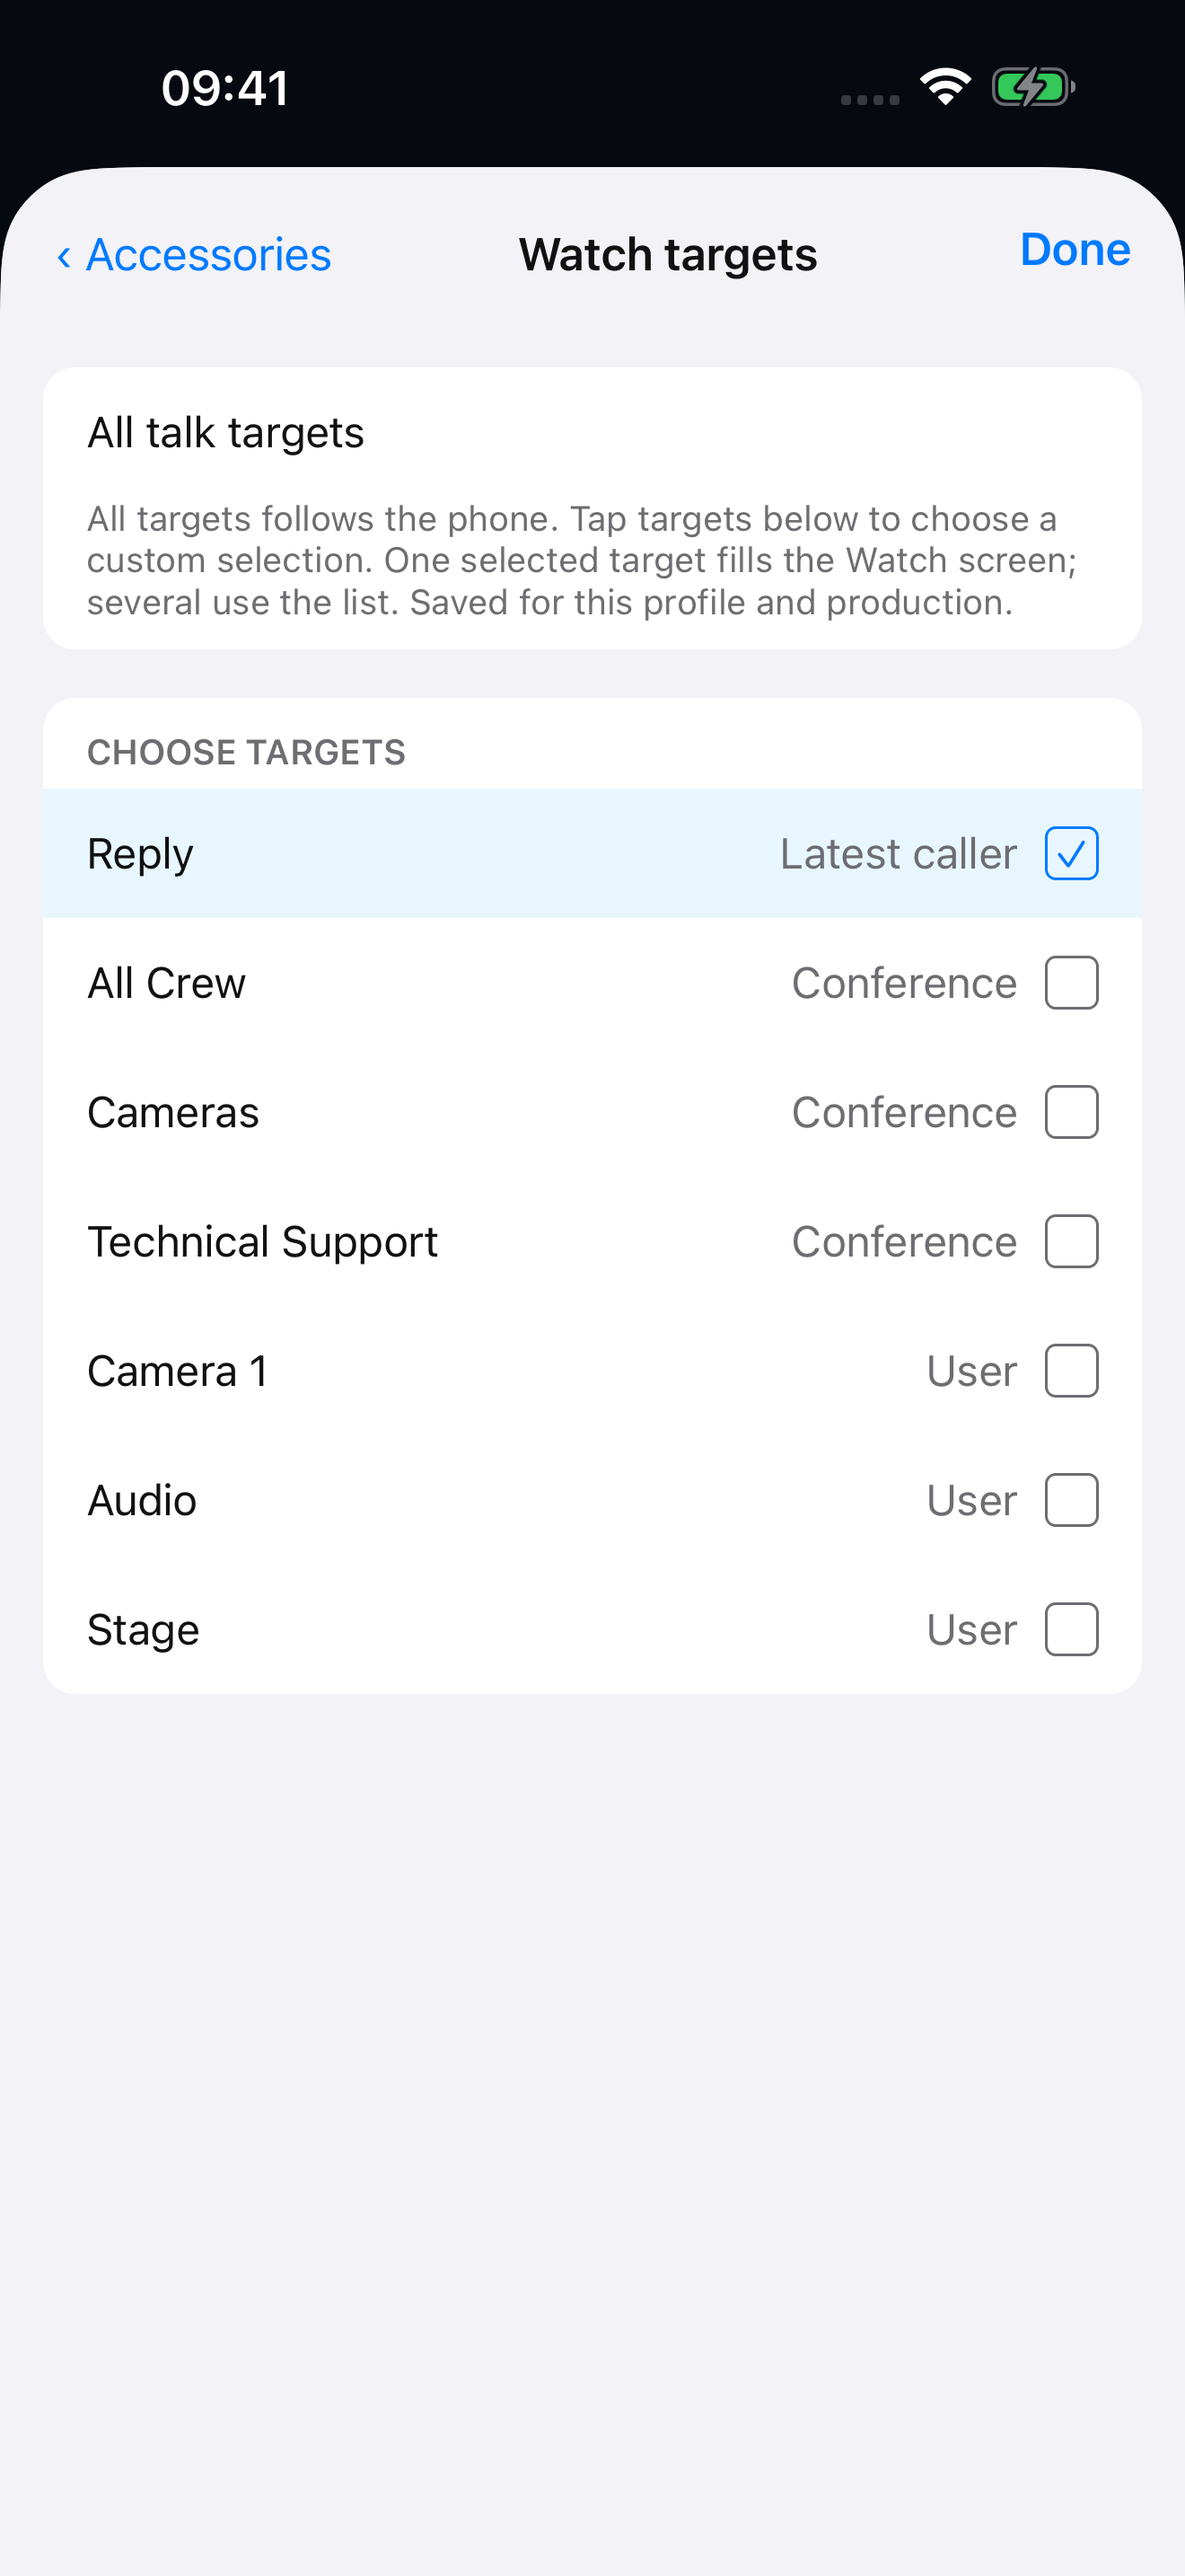
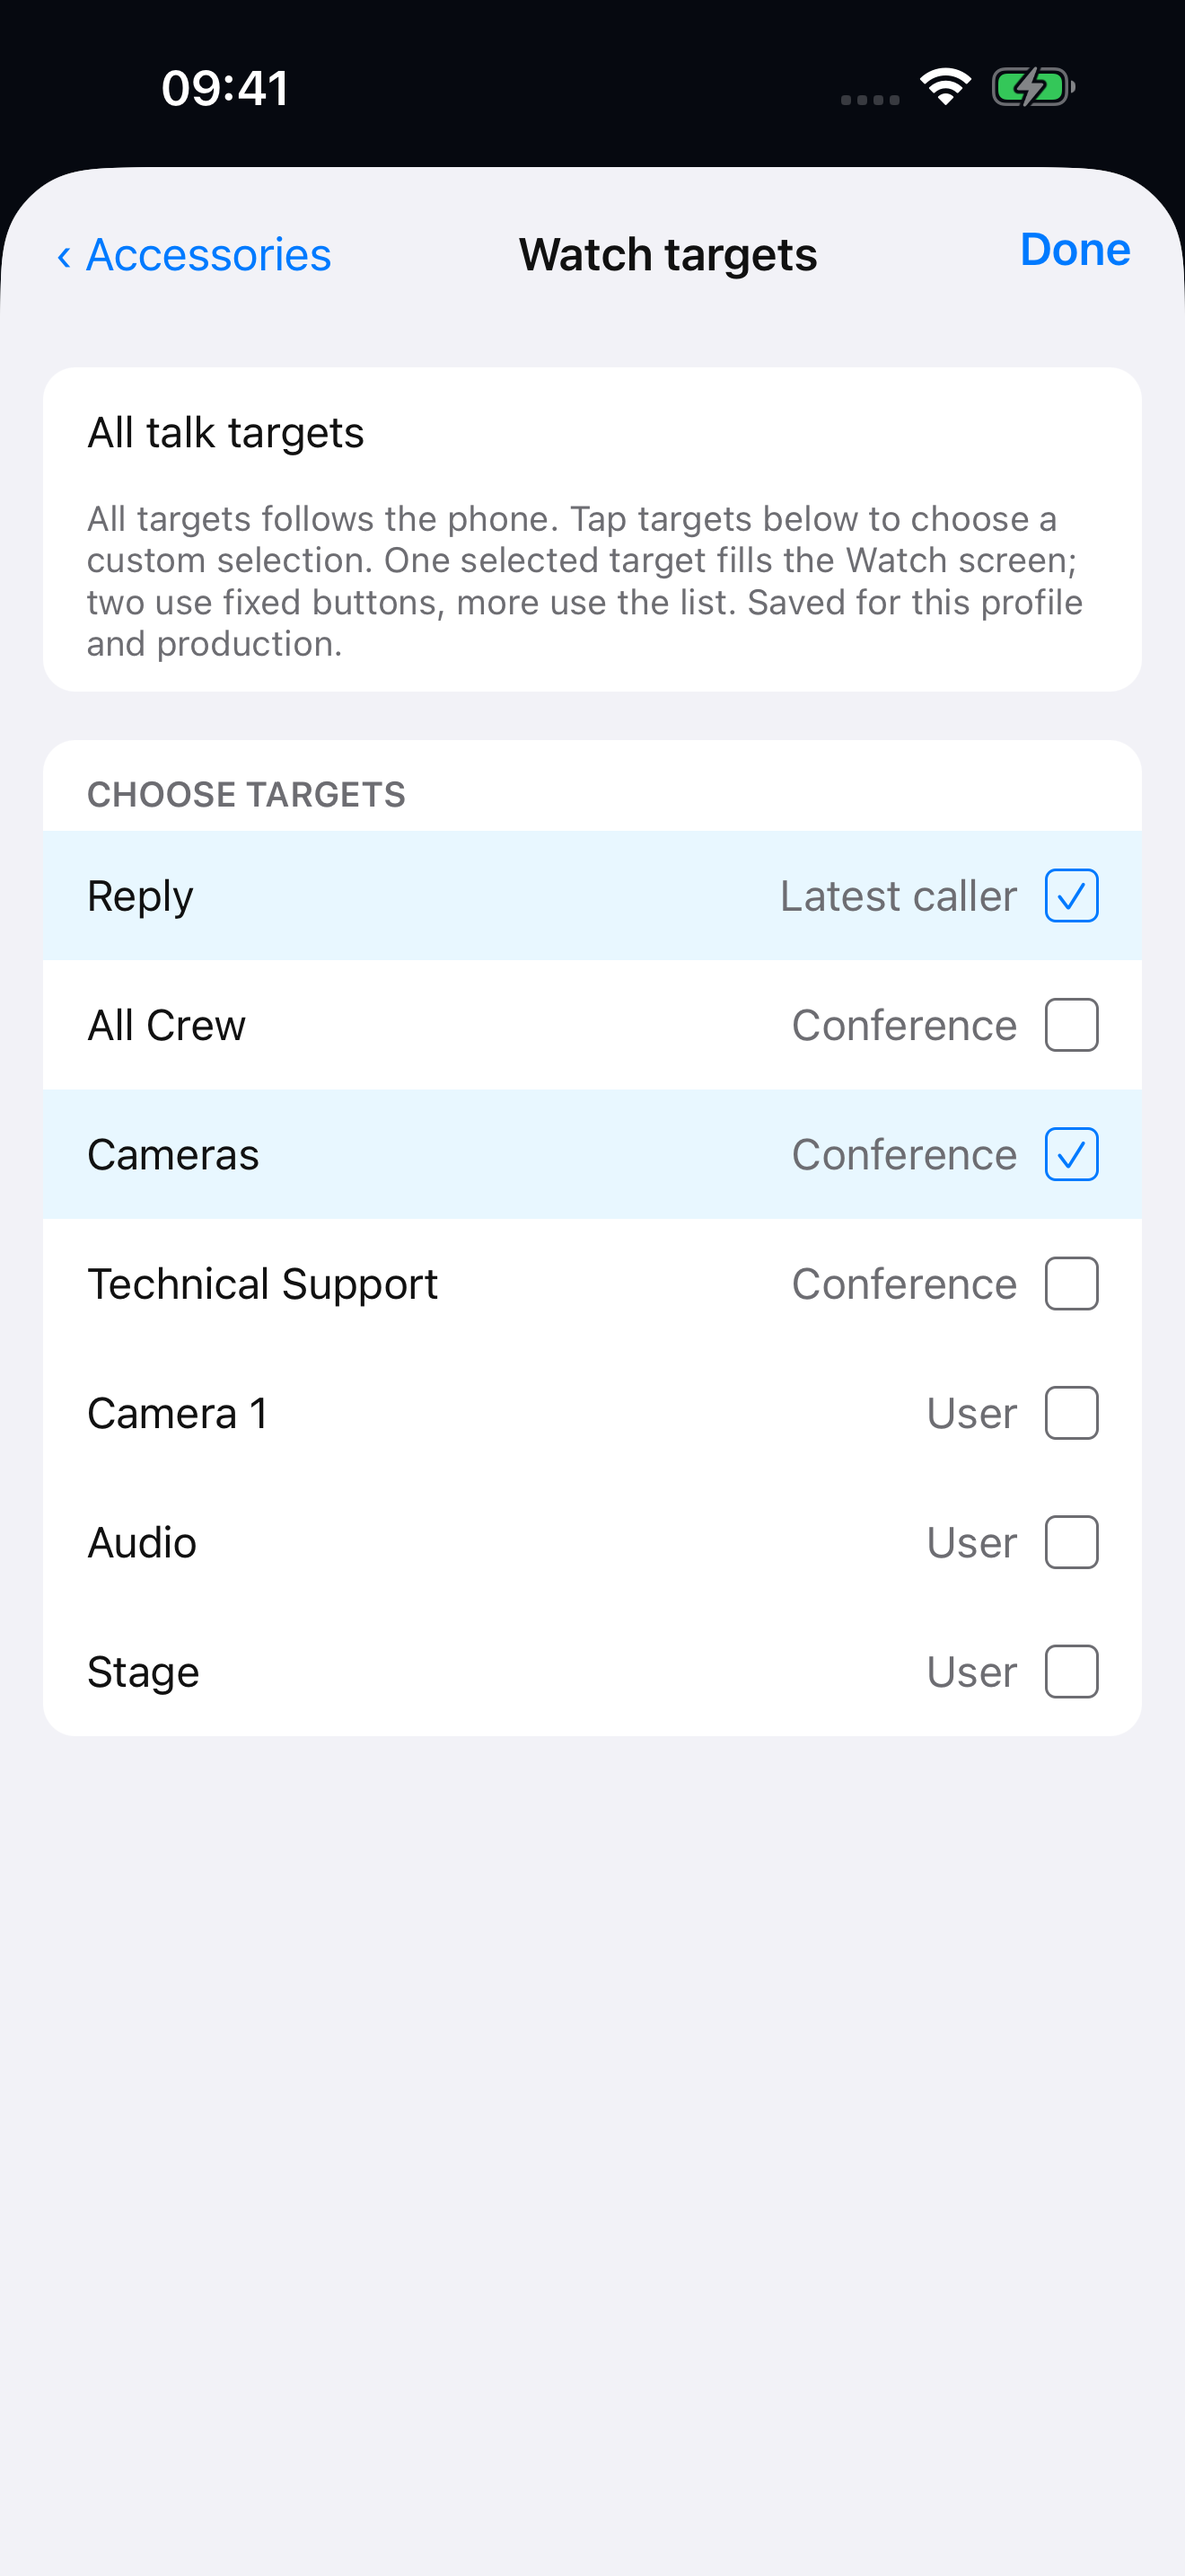
Update review instructions and screenshots for native iOS routing

diff --git a/docs/mobile-privacy-release-plan.md b/docs/mobile-privacy-release-plan.md
@@ -40,7 +40,7 @@ Die Store-Screenshots liegen unter
 und sind in den englischen und deutschen Store-Entwurf hochgeladen.
 Die öffentliche App-Oberfläche ist derzeit Englisch.
 
-Validierung: 405 mobile Tests, TypeScript, iOS-/Android-Bundle-Export und nativer
+Validierung: 423 mobile Tests, TypeScript, iOS-/Android-Bundle-Export und nativer
 Swift-Routing-Test erfolgreich. Simulator: Login und Datenschutz-Link vor/nach
 Anmeldung, Audio-Menü schließen und außerhalb antippen geprüft. Vorher/Nachher-
 Aufnahmen nach „Done“ sind einschließlich der Statusleiste pixelgleich. Die
@@ -50,8 +50,24 @@ Hardware; die veröffentlichte Geräte-App enthält diese Simulator-Anpassung ni
 
 Build 35: Watch-Auswahl (ein Ziel, mehrere Ziele, Reply und Wiederherstellung
 nach Neustart) im gekoppelten iPhone-/Watch-Simulator geprüft. Geänderte iPhone-Storebilder
-auf Build 35 aktualisiert, einschließlich der Watch-Auswahl; unveränderte
-Operator-, iPad- und Watch-Bilder bleiben mit Build-34-Herkunft im Manifest
-gekennzeichnet.
+auf Build 36 aktualisiert, einschließlich der Watch-Auswahl und des nativen
+iOS-Ausgabesymbols. Bilder der aufgegebenen eigenen Audioauswahl entfernt.
+Allgemeine iPad-/Watch-Bilder bleiben mit Build-34-Herkunft im Manifest gekennzeichnet.
 
 Englische und deutsche TestFlight-Testhinweise sind bei Build 34 und 35 hinterlegt.
+
+Build 36: Apples originales Ausgabebedienelement und System-Geräteliste
+wiederhergestellt. Alte gespeicherte App-/Panel-Ausgaben werden bei iOS-Anmeldung
+nicht über die aktuelle Systemroute gelegt. Die Systemliste wird nicht gefiltert;
+deren mögliche optische Wechsel bleiben iOS überlassen.
+
+Watch: Vollbild unterstützt links Wischen zum Einrasten und Antippen zum Stoppen.
+Zwei Ziele verwenden feste obere/untere Tasten, weitere Ziele eine Liste. Bei
+gewählter externer iPhone-Ausgabe spielt der Bereitschaftston auf dieser Ausgabe
+und nicht auf Watch. Phone und Watch müssen gemeinsam aktualisiert werden.
+
+Die Zweierdarstellung und der Start-/Lock-/Loslass-/Stop-Protokollablauf wurden
+im gekoppelten Simulator geprüft. Eine zusätzliche temporäre Watch-Teststeuerung
+übte die Kommandos aus; sie ist nicht im Gerätebuild enthalten. Physische
+Swipe-Gesten, AirPods-Wechsel, Headset-Ton und das iOS-Systemmenü sind auf echten
+Geräten zu prüfen.

diff --git a/mobile-app/store/app-review-instructions.en.md b/mobile-app/store/app-review-instructions.en.md
@@ -47,8 +47,11 @@ another participant. Bluetooth accessories are optional.
 
 With the Watch app installed and the iPhone session connected, open Session →
 Accessories → Watch targets on iPhone. Select Reply and/or fixed targets. One
-selected target fills the Watch screen; several use a list. Hold a target on Watch
-to talk and release to stop. The Watch controls the iPhone session; audio remains
+selected target fills the Watch screen; two targets use fixed upper/lower
+buttons, and more targets use a list. Hold a target on Watch to talk and release
+to stop. In the full-screen view, swipe left while holding to lock talk; tap the
+locked target again to stop. With an external iPhone audio output selected, the
+ready beep plays through that output instead of the Watch. The Watch controls the iPhone session; audio remains
 on iPhone and its selected audio device.
 
 ### Backup connection
